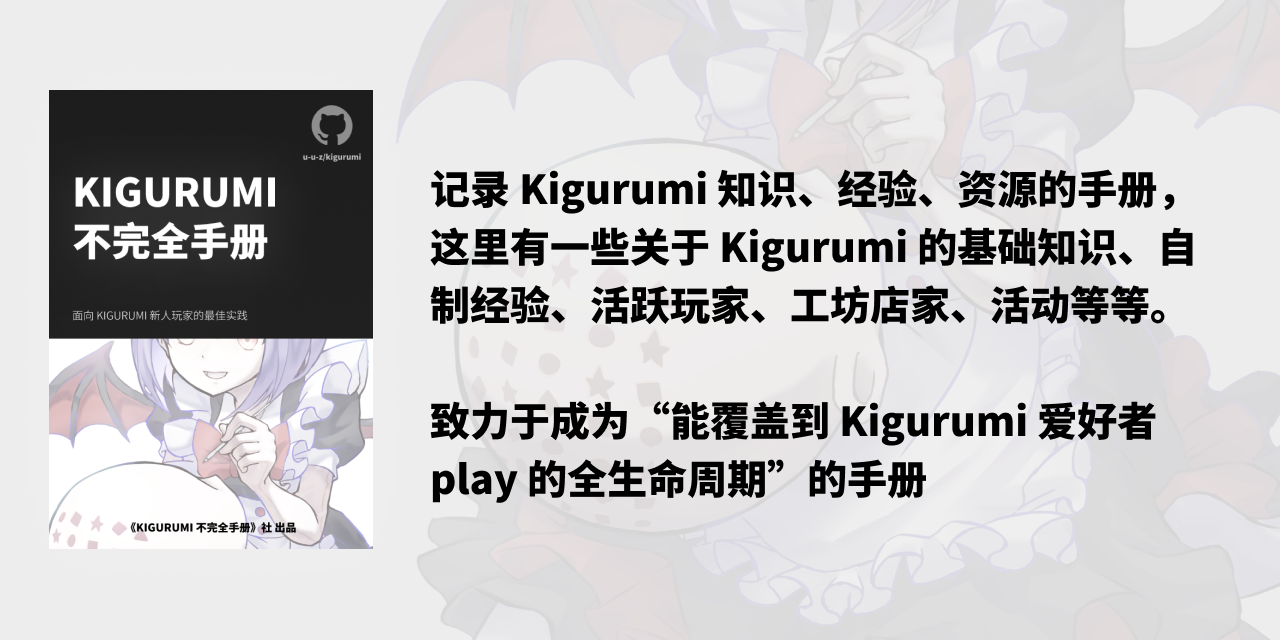
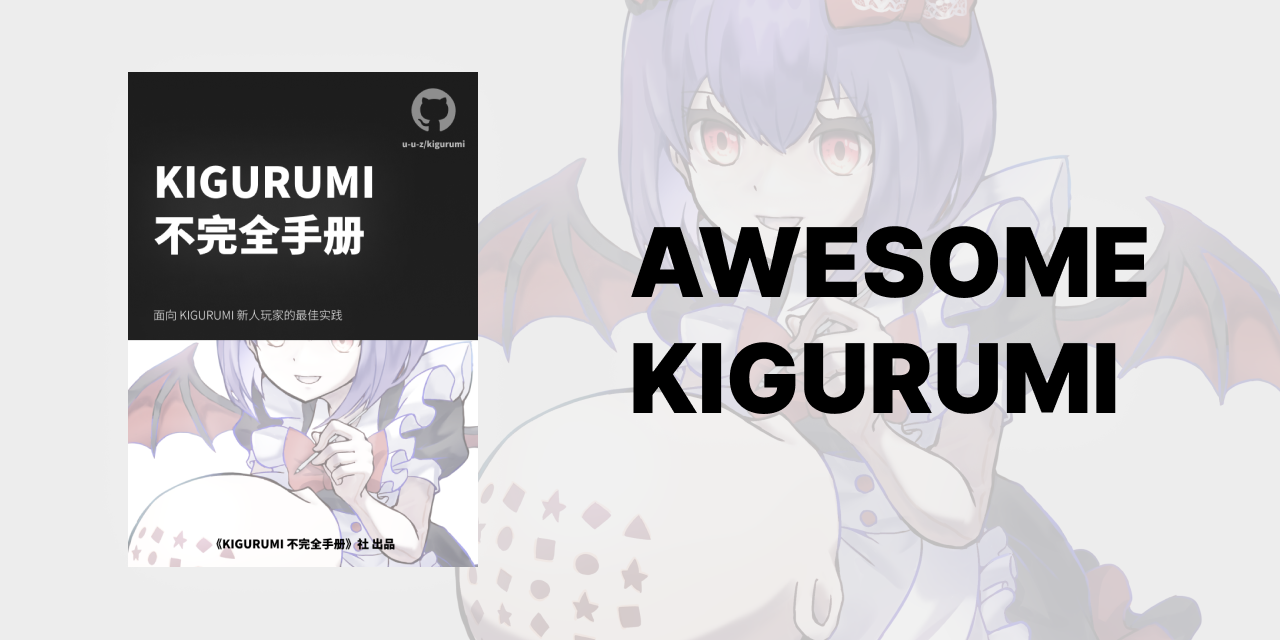
docs: update README cover

diff --git a/README.md b/README.md
@@ -1,3 +1,7 @@
+<div align="center" style="margin-top: 40px; margin-bottom: 40px;">
+  <img src="./assets/readme_cover.png"/>
+</div>
+
 <div align="center">
 <img src="./assets/awesome_kigurumi_logo.png" width="128"  />
 <h1>KIGURUMI 不完全手册</h1>
@@ -8,10 +12,6 @@
 > 词条：[Kigurumi](kigurumi.md)
 
 > 我最近在重新学习玩 Kigurumi，巩固一下细节，也写一个 “AWESOME KIGURUMI 手册”，供小白们使用（KIGURUMI 大佬可以另找教程），每周更新 1-3 讲。
-
-<div align="center" style="margin-top: 40px; margin-bottom: 40px;">
-  <img src="./assets/readme_cover.png"/>
-</div>
 
 这是一个记录 Kigurumi 知识、经验、资源的手册，这里有一些关于 Kigurumi 的基础知识、自制经验、活跃玩家、工坊店家、活动等等。致力于成为 **能覆盖到 Kigurumi 爱好者 play 的全生命周期** 手册，也可以称作他为：AWESOME KIGURUMI!!
 
@@ -28,6 +28,8 @@
 - [ ] 128 ⭐ 内容、章节系统化（**2024/09/17 阶段达成**，正在进行 详见 ISSUES [#14](https://github.com/u-u-z/kigurumi/issues/14)）
 - [ ] 256 ⭐ 进阶内容、创建社群、支持 i18n、真的出个册子？
 - [ ] 512 ⭐ 重建官网、创建沙龙活动
+
+## 目录
 
 ## 🎯 内容目标、计划
 
